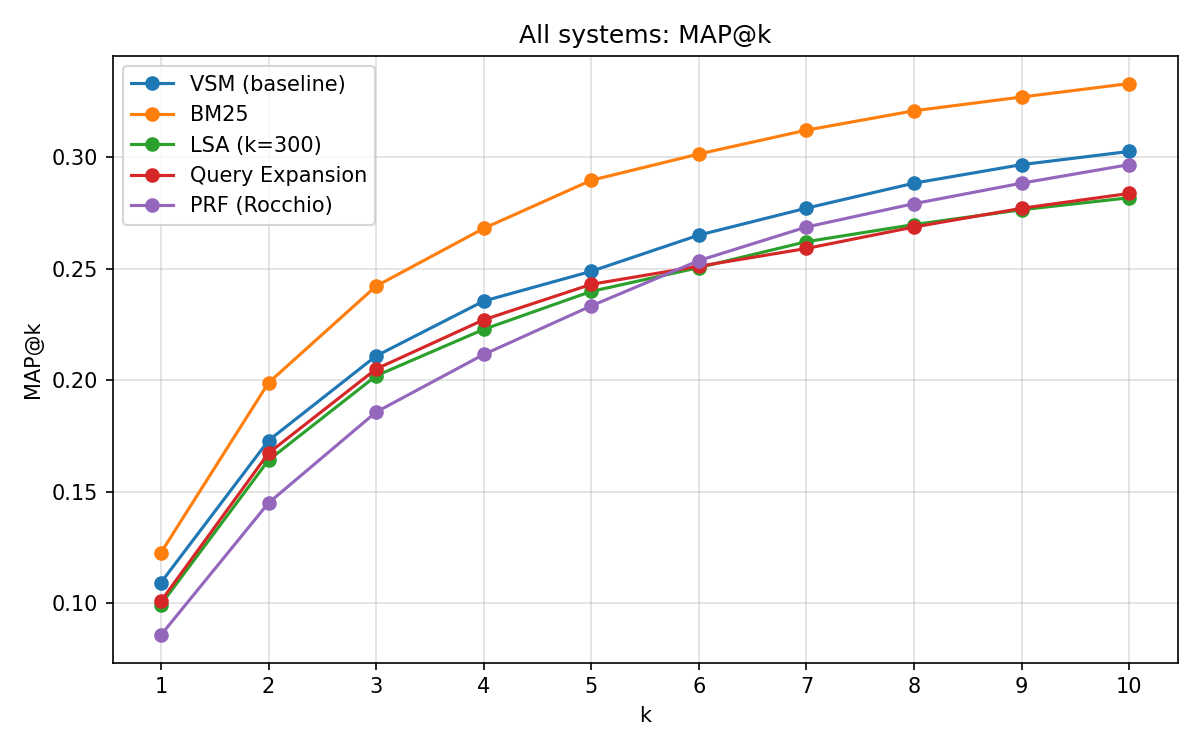
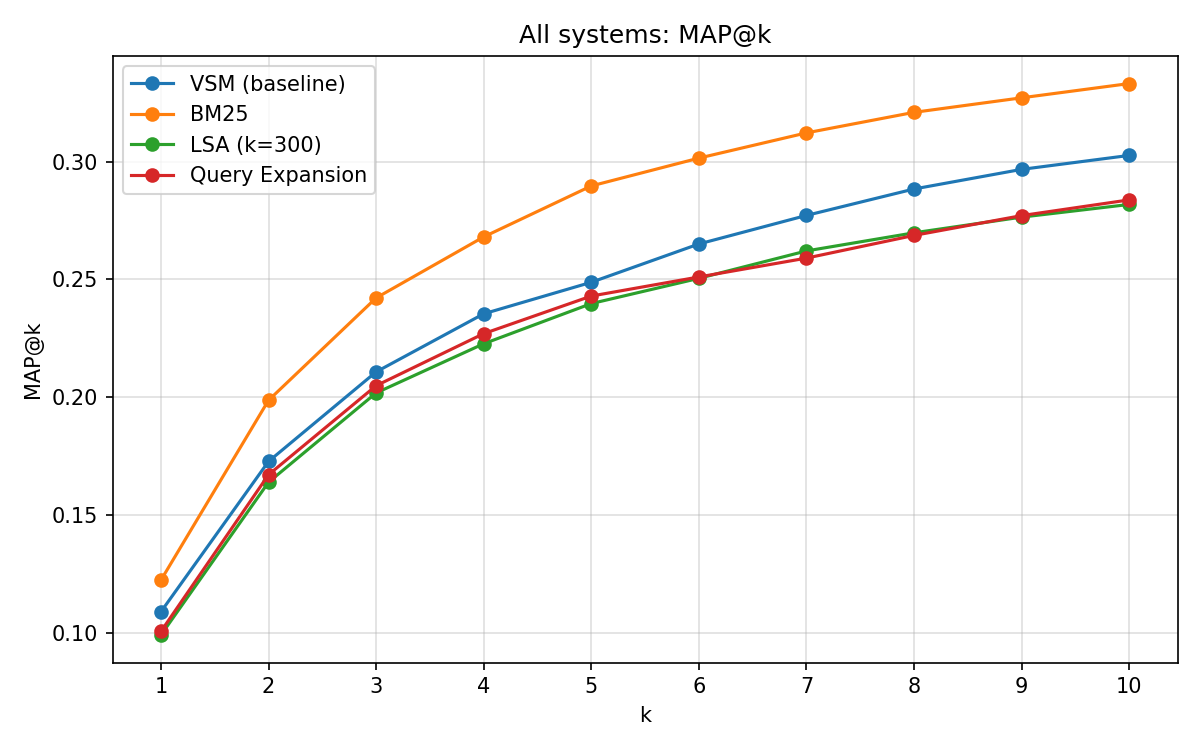
add code for part5

diff --git a/part5.py b/part5.py
@@ -7,7 +7,6 @@ Implements and evaluates four retrieval systems:
   2. BM25 ranking
   3. Latent Semantic Analysis (LSA) via truncated SVD
   4. Query Expansion via WordNet  (from part5_ideas.tex)
-  5. Pseudo-Relevance Feedback / Rocchio (additional approach)
 
 Run:
     python part5.py
@@ -48,10 +47,6 @@ BM25_B    = 0.75
 LSA_DIMS  = [50, 100, 200, 300]
 
 QE_LAMBDA = 0.5 # synonym weight discount factor
-
-PRF_TOPK  = 5 # pseudo-relevant docs for Rocchio
-PRF_ALPHA = 1.0 # original query weight
-PRF_BETA  = 0.75 # pseudo-relevant centroid weight
 
 os.makedirs(OUT_DIR, exist_ok=True)
 os.makedirs(os.path.join(OUT_DIR, "figures"), exist_ok=True)
@@ -295,86 +290,6 @@ class QueryExpansionRetrieval:
             results.append([d for _, d in scores])
         return results
 
-# Rocchio pseudo-relevance feedback.
-class PseudoRelevanceFeedback:
-    """
-    Rocchio pseudo-relevance feedback.
-
-    Step 1: retrieve top-K documents with baseline TF-IDF.
-    Step 2: build an expanded query vector:
-            q_new = alpha * q_orig + beta * centroid(top_K docs)
-    Step 3: re-rank with the expanded query.
-
-    This addresses vocabulary mismatch by using corpus evidence
-    rather than an external lexical resource.
-    """
-
-    def __init__(self, top_k=PRF_TOPK, alpha=PRF_ALPHA, beta=PRF_BETA):
-        self.top_k = top_k
-        self.alpha = alpha
-        self.beta  = beta
-        self.ir    = InformationRetrieval()
-
-    def buildIndex(self, docs, doc_ids):
-        self.ir.buildIndex(docs, doc_ids)
-
-    def rank(self, queries):
-        idf         = self.ir.idf
-        doc_vectors = self.ir.doc_vectors
-        doc_norms   = self.ir.doc_norms
-        doc_ids     = self.ir.doc_ids
-        id2idx      = {did: i for i, did in enumerate(doc_ids)}
-        results     = []
-
-        for query in queries:
-            terms = [t for sent in query for t in sent]
-            tf_q  = Counter(terms)
-
-            # ── Initial TF-IDF query vector ──
-            q_vec = {}
-            for t, cnt in tf_q.items():
-                if t in idf:
-                    q_vec[t] = cnt * idf[t]
-            q_norm = math.sqrt(sum(v * v for v in q_vec.values())) or 1e-10
-
-            # ── Initial ranking ──
-            init_scores = []
-            for idx, dv in enumerate(doc_vectors):
-                dn = doc_norms[idx]
-                if dn == 0:
-                    init_scores.append((0.0, doc_ids[idx]))
-                else:
-                    dot = sum(q_vec.get(t, 0) * dv.get(t, 0) for t in q_vec)
-                    init_scores.append((dot / (q_norm * dn), doc_ids[idx]))
-            init_scores.sort(key=lambda x: x[0], reverse=True)
-
-            # ── Centroid of top_k pseudo-relevant docs ──
-            topk_ids = [d for _, d in init_scores[: self.top_k]]
-            centroid = defaultdict(float)
-            for did in topk_ids:
-                for t, v in doc_vectors[id2idx[did]].items():
-                    centroid[t] += v / self.top_k
-
-            # ── Rocchio update ──
-            all_terms = set(q_vec) | set(centroid)
-            q_new = {
-                t: self.alpha * q_vec.get(t, 0) + self.beta * centroid.get(t, 0)
-                for t in all_terms
-            }
-            q_new_norm = math.sqrt(sum(v * v for v in q_new.values())) or 1e-10
-
-            # ── Re-rank with updated query ──
-            new_scores = []
-            for idx, dv in enumerate(doc_vectors):
-                dn = doc_norms[idx]
-                if dn == 0:
-                    new_scores.append((0.0, doc_ids[idx]))
-                else:
-                    dot = sum(q_new.get(t, 0) * dv.get(t, 0) for t in q_new)
-                    new_scores.append((dot / (q_new_norm * dn), doc_ids[idx]))
-            new_scores.sort(key=lambda x: x[0], reverse=True)
-            results.append([d for _, d in new_scores])
-        return results
 
 ### evaluation functions ### 
 
@@ -610,31 +525,13 @@ def main():
           f"{'SIGNIFICANT' if qe_p < 0.05 else 'not significant'} at α=0.05")
     plot_system_metrics(qe_metrics, "WordNet Query Expansion", "qe_metrics.png")
 
-    # Pseudo-Relevance Feedback
-    print("\nPseudo-Relevance Feedback / Rocchio "
-          f"(top_k={PRF_TOPK}, α={PRF_ALPHA}, β={PRF_BETA}) …")
-    prf = PseudoRelevanceFeedback()
-    t0 = time.time()
-    prf.buildIndex(docs_processed, doc_ids)
-    prf_ranked  = prf.rank(queries_processed)
-    prf_time    = time.time() - t0
-    prf_metrics = evaluate_at_all_k(prf_ranked, query_ids, qrels, ev)
-    prf_ap10    = per_query_ap(prf_ranked, query_ids, qrels, K_MAX, ev)
-    prf_zero    = count_zero_result(prf_ranked, query_ids, qrels, ev)
-    prf_p       = wilcoxon_pvalue(prf_ap10, vsm_ap10)
-    print(f"  MAP@10={fmt(prf_metrics['map'][-1])}  MRR@10={fmt(prf_metrics['mrr'][-1])}"
-          f"  nDCG@10={fmt(prf_metrics['ndcg'][-1])}  time={prf_time:.2f}s")
-    print(f"  Wilcoxon vs VSM  p={prf_p:.4f}  "
-          f"{'SIGNIFICANT' if prf_p < 0.05 else 'not significant'} at α=0.05")
-    plot_system_metrics(prf_metrics, "Pseudo-Relevance Feedback (Rocchio)", "prf_metrics.png")
-
+    
     # plot comparison
     all_metrics = {
         "VSM (baseline)":   vsm_metrics,
         "BM25":             bm25_metrics,
         f"LSA (k={best_k})": lsa_metrics,
         "Query Expansion":  qe_metrics,
-        "PRF (Rocchio)":    prf_metrics,
     }
     plot_metric_comparison(all_metrics, "map",  "MAP@k",   "All systems: MAP@k",   "all_map.png")
     plot_metric_comparison(all_metrics, "ndcg", "nDCG@k",  "All systems: nDCG@k",  "all_ndcg.png")
@@ -667,22 +564,15 @@ def main():
                                   fmt(qe_metrics["recall"][-1]),
                                   fmt(qe_metrics["ndcg"][-1]),
                                   str(qe_zero),    f"{qe_time:.2f}"],
-        ["PRF (Rocchio)",         fmt(prf_metrics["map"][-1]),
-                                  fmt(prf_metrics["mrr"][-1]),
-                                  fmt(prf_metrics["precision"][-1]),
-                                  fmt(prf_metrics["recall"][-1]),
-                                  fmt(prf_metrics["ndcg"][-1]),
-                                  str(prf_zero),   f"{prf_time:.2f}"],
-    ]
+   ]
     headers = ["System", "MAP@10", "MRR@10", "P@10", "R@10", "nDCG@10", "Zero", "Time(s)"]
-    print_table(rows, headers, title="Summary – All Systems on Cranfield")
+    print_table(rows, headers, title="Summary: All Systems on Cranfield")
 
     # Wilcoxon p-values table
     pval_rows = [
-        ["BM25 vs VSM",          f"{bm25_p:.4f}", "YES" if bm25_p < 0.05 else "no"],
+        ["BM25 vs VSM", f"{bm25_p:.4f}", "YES" if bm25_p < 0.05 else "no"],
         [f"LSA k={best_k} vs VSM", f"{lsa_p:.4f}", "YES" if lsa_p < 0.05 else "no"],
-        ["QE vs VSM",             f"{qe_p:.4f}",   "YES" if qe_p < 0.05 else "no"],
-        ["PRF vs VSM",            f"{prf_p:.4f}",  "YES" if prf_p < 0.05 else "no"],
+        ["QE vs VSM", f"{qe_p:.4f}",   "YES" if qe_p < 0.05 else "no"],
     ]
     print_table(pval_rows, ["Comparison", "p-value", "Sig. (α=0.05)"],
                 title="Wilcoxon Signed-Rank Tests (AP@10)")
@@ -699,8 +589,6 @@ def main():
                  "k_sweep": {k: v for k, v in lsa_map10.items()}},
         "qe":   {**{m: qe_metrics[m]   for m in qe_metrics},
                  "zero_results": qe_zero,   "time": qe_time,  "p_vs_vsm": qe_p},
-        "prf":  {**{m: prf_metrics[m]  for m in prf_metrics},
-                 "zero_results": prf_zero,  "time": prf_time, "p_vs_vsm": prf_p},
     }
     out_path = os.path.join(OUT_DIR, "results.json")
     with open(out_path, "w") as f:
